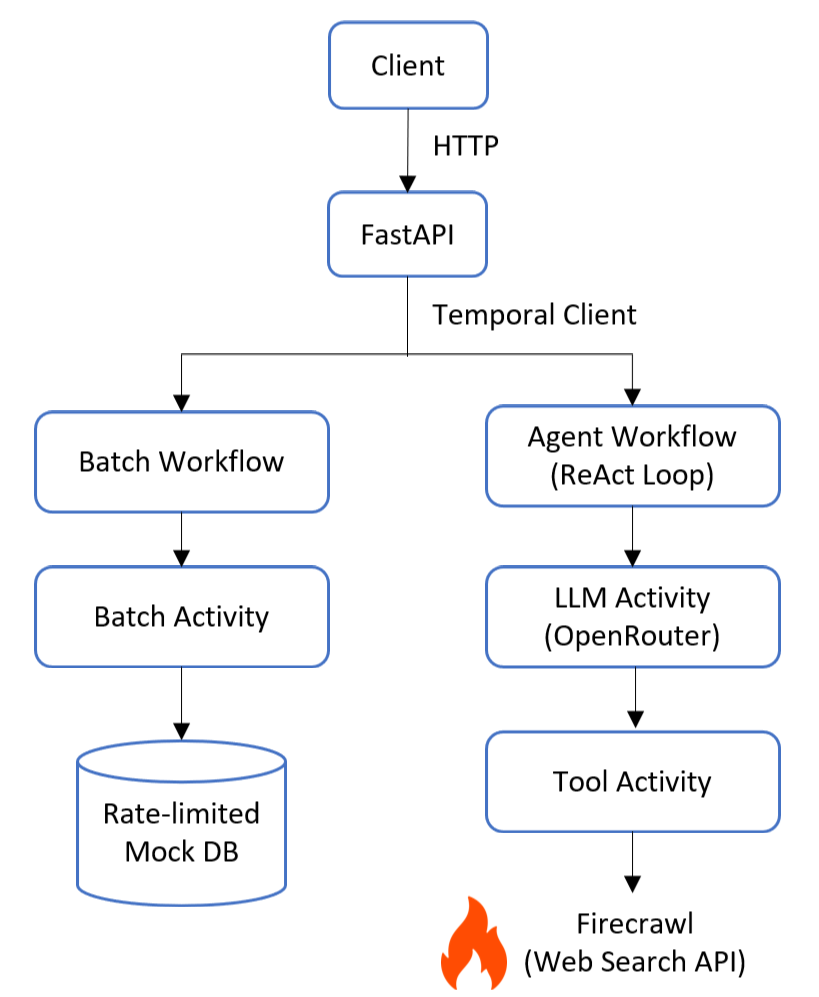
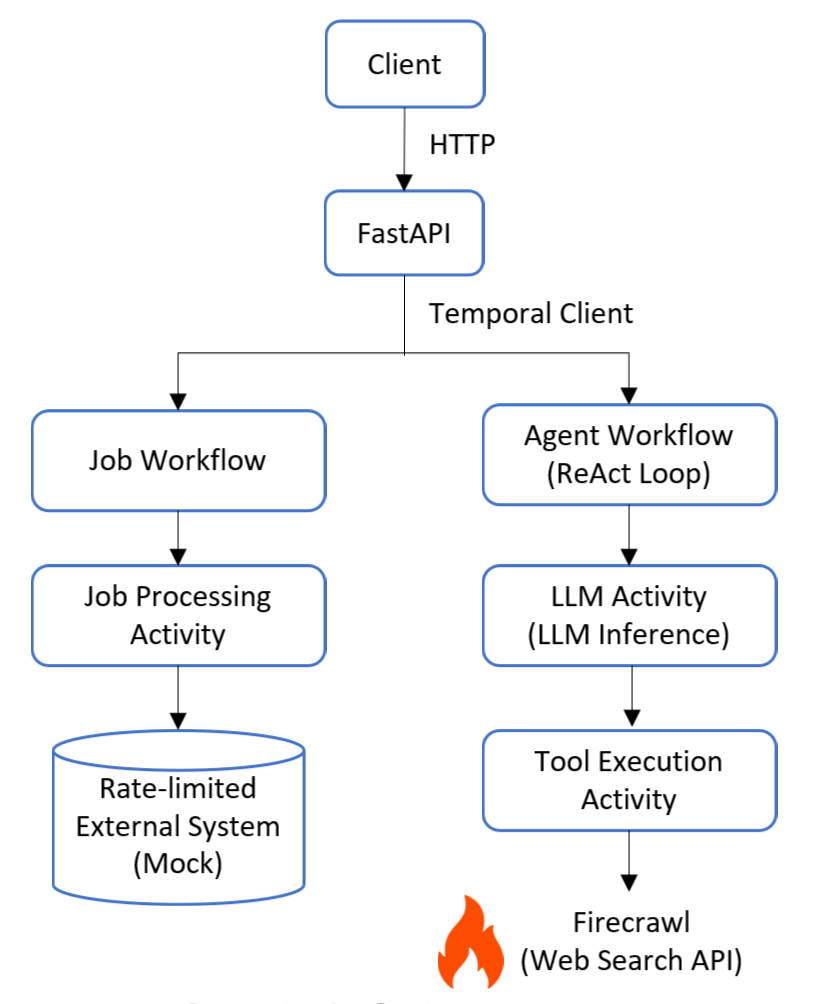
feat: implement Temporal-based job orchestration system

Changed region(s): [[0.0307, 0.0, 0.9521, 0.9328], [0.5221, 0.8706, 0.9214, 0.995]]

diff --git a/api/main.py b/api/main.py
@@ -2,7 +2,7 @@ from fastapi import FastAPI
 from temporalio.client import Client
 from pydantic import BaseModel, Field
 
-from api.workflows.promo_workflow import PromoWorkflow
+from api.workflows.job_workflow import JobWorkflow
 from api.utils.temporal_client import get_temporal_client
 from api.utils.temporal_ready import wait_for_temporal_ready
 
@@ -15,8 +15,8 @@ from api.utils.prompt_loader import load_prompt
 app = FastAPI()
 
 client: Client = None
-PROMO_WORKFLOW_ID = "promo-workflow"
-PROMO_TASK_QUEUE = "promo-task-queue"
+JOB_WORKFLOW_ID = "job-workflow"
+JOB_TASK_QUEUE = "job-task-queue"
 AGENT_TASK_QUEUE = "agent-task-queue"
 
 
@@ -32,22 +32,22 @@ async def startup():
     # Start workflow if not already running
     try:
         await client.start_workflow(
-            PromoWorkflow.run,
-            id=PROMO_WORKFLOW_ID,
-            task_queue=PROMO_TASK_QUEUE,
+            JobWorkflow.run,
+            id=JOB_WORKFLOW_ID,
+            task_queue=JOB_TASK_QUEUE,
         )
         print("Workflow started")
     except Exception:
         print("Workflow already exists")
 
 
-class PromoRequest(BaseModel):
+class JobRequest(BaseModel):
     title: str
     count: int = Field(..., ge=1, le=1000)
 
-@app.post("/promo/codes")
-async def add_promo(req: PromoRequest):
-    handle = client.get_workflow_handle(PROMO_WORKFLOW_ID)
+@app.post("/jobs")
+async def add_job(req: JobRequest):
+    handle = client.get_workflow_handle(JOB_WORKFLOW_ID)
     await handle.signal("add_request", {
         "title": req.title,
         "count": req.count
@@ -55,9 +55,9 @@ async def add_promo(req: PromoRequest):
     return {"message": "queued"}
 
 
-@app.post("/promo/pause")
+@app.post("/jobs/pause")
 async def pause():
-    handle = client.get_workflow_handle(PROMO_WORKFLOW_ID)
+    handle = client.get_workflow_handle(JOB_WORKFLOW_ID)
 
     status = await handle.query("get_status")
 
@@ -68,9 +68,9 @@ async def pause():
     return {"message": "paused"}
 
 
-@app.post("/promo/resume")
+@app.post("/jobs/resume")
 async def resume():
-    handle = client.get_workflow_handle(PROMO_WORKFLOW_ID)
+    handle = client.get_workflow_handle(JOB_WORKFLOW_ID)
 
     status = await handle.query("get_status")
 
@@ -81,16 +81,16 @@ async def resume():
     return {"message": "resumed"}
 
 
-@app.get("/promo/status")
+@app.get("/jobs/status")
 async def status():
-    handle = client.get_workflow_handle(PROMO_WORKFLOW_ID)
+    handle = client.get_workflow_handle(JOB_WORKFLOW_ID)
     result = await handle.query("get_status")
     return {"status": result}
 
 
-@app.post("/promo/discard")
+@app.post("/jobs/discard")
 async def discard():
-    handle = client.get_workflow_handle(PROMO_WORKFLOW_ID)
+    handle = client.get_workflow_handle(JOB_WORKFLOW_ID)
 
     # Remove pending requests only
     await handle.signal("discard")

diff --git a/api/workers/job_worker.py b/api/workers/job_worker.py
@@ -3,8 +3,8 @@ import asyncio
 from temporalio.worker import Worker
 
 from api.utils.temporal_client import get_temporal_client
-from api.workflows.promo_workflow import PromoWorkflow
-from api.activities.promo_activity import write_promo_activity
+from api.workflows.job_workflow import JobWorkflow
+from api.activities.job_activity import process_batch_activity
 from api.utils.temporal_ready import wait_for_temporal_ready
 
 
@@ -19,12 +19,12 @@ async def main():
     # Register workflow and activity to worker
     worker = Worker(
         client,
-        task_queue="promo-task-queue",  
-        workflows=[PromoWorkflow],
-        activities=[write_promo_activity],
+        task_queue="job-task-queue",  
+        workflows=[JobWorkflow],
+        activities=[process_batch_activity],
     )
 
-    print("Promo Worker started. Waiting for tasks...")
+    print("Job Worker started. Waiting for tasks...")
 
     await worker.run()
 

diff --git a/api/workflows/job_workflow.py b/api/workflows/job_workflow.py
@@ -1,10 +1,10 @@
 from temporalio import workflow
 from datetime import timedelta
-from api.activities.promo_activity import write_promo_activity
+from api.activities.job_activity import process_batch_activity
 
 
 @workflow.defn
-class PromoWorkflow:
+class JobWorkflow:
 
     def __init__(self):
         self.queue = []
@@ -43,7 +43,7 @@ class PromoWorkflow:
                 batch = min(100, remaining)
 
                 await workflow.execute_activity(
-                    write_promo_activity,
+                    process_batch_activity,
                     {
                         "title": title,
                         "count": batch

diff --git a/api/activities/job_activity.py b/api/activities/job_activity.py
@@ -1,0 +1,18 @@
+from temporalio import activity
+
+
+def write_batch_to_db(title: str, count: int):
+    if count > 100:
+        raise RuntimeError("The DB cannot write more than 100 items at once")
+    print(f"{count} items with job [{title}] written to the DB.")
+
+
+@activity.defn
+async def process_batch_activity(data: dict):
+
+    print("[ACTIVITY] executing batch...")
+    
+    title = data["title"]
+    count = data["count"]
+
+    write_batch_to_db(title, count)

diff --git a/README.md b/README.md
@@ -1,43 +1,42 @@
 # Temporal-Based Workflow & Agent System
 
+
 ## Overview
 
-This project focuses on designing and implementing:
+This project implements a **stateful job orchestration system** using Temporal.
 
-* A **rate-limited batch processing system** using Temporal
-* A **fault-tolerant ReAct agent system** with LLM + tool calling
+In many event-driven systems (e.g., Kafka-based pipelines), failed tasks often require
+reprocessing from the beginning, leading to inefficiency and increased operational cost.
 
-The system is built to handle **long-running, stateful, and failure-prone tasks**
-by leveraging Temporal’s workflow orchestration capabilities.
+To address this, this system introduces:
 
-It combines traditional backend workflow design with modern LLM-based agent systems.
+- Stateful workflow execution
+- Step-level retry and recovery
+- Long-running job orchestration
 
+Additionally, it includes a **fault-tolerant ReAct agent system**, where each reasoning step
+is persisted and recoverable.
 
-## Background
+👉 The goal is to demonstrate how Temporal can be used to build
+reliable backend systems beyond stateless task queues.
 
-This project was initially inspired by a technical assignment,
-and later extended into a personal project with additional design considerations
-around workflow orchestration and fault-tolerant agent systems.
-
+---
 
 ## Key Features
 
-### 1. Batch Processing System
+### 1. Job Processing System
 
-* Queue-based request handling
-* Sequential batch execution (no parallel writes)
-* Rate limiting (100 items per 10 seconds)
-* Workflow-level state management (no external DB)
-* Runtime control via signals:
+- Queue-based job submission
+- Sequential execution with batching (no parallel processing)
+- Rate limiting (100 items per 10 seconds)
+- Stateful execution using Temporal (no external DB)
+- Runtime control via signals: pause, resume, discard
 
-  * pause
-  * resume
-  * discard
+👉 Designed to simulate real-world constraints such as:
+- rate-limited external APIs
+- legacy systems with low throughput
 
-👉 Designed to simulate **real-world constrained systems**
-(e.g., rate-limited external APIs or legacy DBs)
 
----
 
 ### 2. Agent System (ReAct-based)
 
@@ -48,7 +47,8 @@ around workflow orchestration and fault-tolerant agent systems.
 
 👉 Implemented **without LangChain**, directly on Temporal
 
----
+
+
 
 ### 3. Fault Tolerance
 
@@ -70,19 +70,21 @@ around workflow orchestration and fault-tolerant agent systems.
 
 - FastAPI acts as the entry point
 - Temporal orchestrates workflows
-- Batch workflow handles rate-limited processing
+- Job workflow handles rate-limited processing
 - Agent workflow implements a ReAct-based reasoning loop
 
----
+
 
 ## System Design
 
-### Batch Workflow
+### Job Workflow
 
-* Maintains internal queue
-* Processes requests in chunks
-* Enforces strict rate limiting
-* Fully controlled via workflow signals
+- Maintains internal queue
+- Processes jobs in chunks
+- Enforces strict rate limiting
+- Fully controlled via workflow signals
+
+👉 Designed to handle long-running jobs with constrained resources
 
 ### Agent Workflow
 
@@ -95,15 +97,23 @@ around workflow orchestration and fault-tolerant agent systems.
 
 ## Why Temporal?
 
-This system uses Temporal to handle:
+Traditional task queues (e.g., Kafka consumers, cron jobs) typically:
 
-* Durable execution
-* Stateful workflows
-* Fault recovery
-* Long-running processes
+- Do not preserve execution state
+- Require full retries on failure
+- Lack fine-grained control over long-running tasks
 
-Unlike traditional task queues,
-Temporal guarantees that execution resumes from failure points.
+Temporal solves these problems by providing:
+
+- Durable execution (state persisted automatically)
+- Step-level retry (resume from failure point)
+- Built-in workflow orchestration
+- Signal-based runtime control
+
+👉 This makes it suitable for:
+- long-running job processing
+- workflow-based systems
+- AI agent pipelines
 
 ---
 
@@ -145,18 +155,23 @@ Access:
 
 ## API
 
-### Batch System
+### Job System
 
-* POST /promo/codes
-* POST /promo/pause
-* POST /promo/resume
-* GET /promo/status
-* POST /promo/discard
+- POST /jobs
+- POST /jobs/pause
+- POST /jobs/resume
+- GET  /jobs/status
+- POST /jobs/discard
 
-> Note: The API paths use "promo" as an example domain, 
-> but the underlying workflow is designed as a generic batch processing system.
+Example:
 
----
+```
+curl -X POST "http://localhost:8000/jobs" \
+-H "Content-Type: application/json" \
+-d '{"title": "report_job", "count": 500}'
+```
+
+
 
 ### Agent System
 
@@ -196,9 +211,10 @@ Result:
 
 ## Key Takeaways
 
-* Temporal can be used to build **stateful backend systems**
-* Agent workflows benefit from **durability and recovery**
-* ReAct pattern can be implemented without external frameworks
+- Designed a stateful job orchestration system using Temporal
+- Implemented rate-limited batch processing without external DB
+- Built a fault-tolerant ReAct agent system using workflow-based execution
+- Demonstrated how workflow engines can overcome limitations of stateless task queues
 
 ---
 
